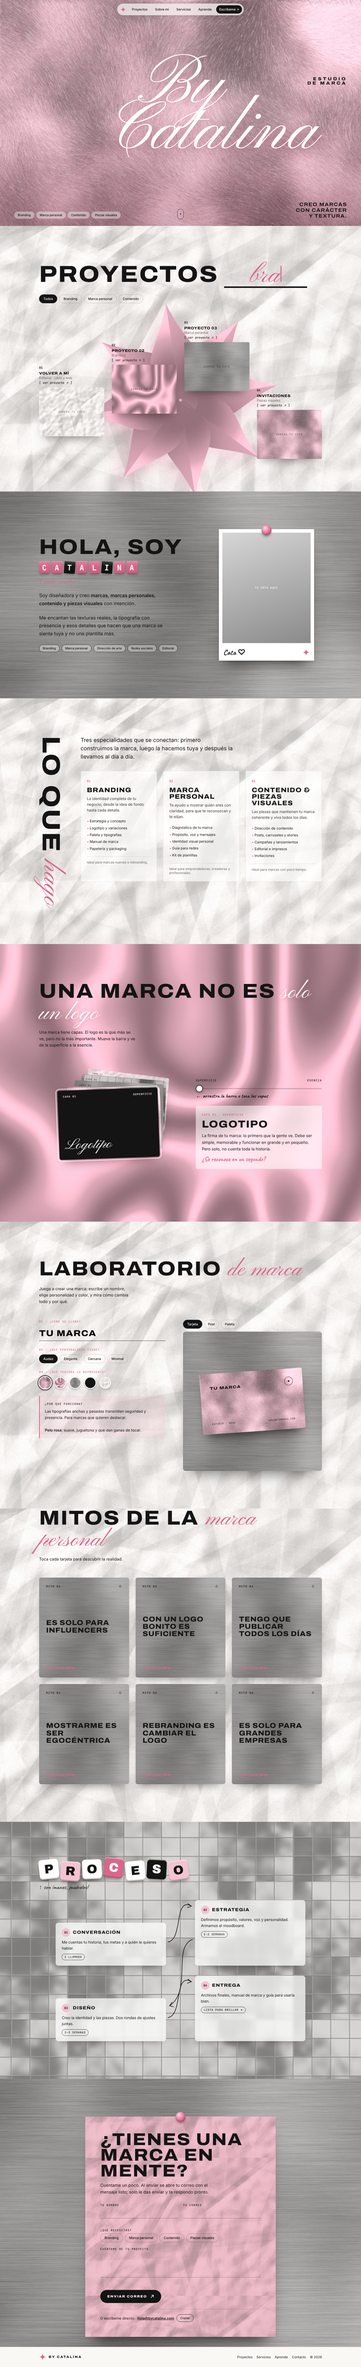
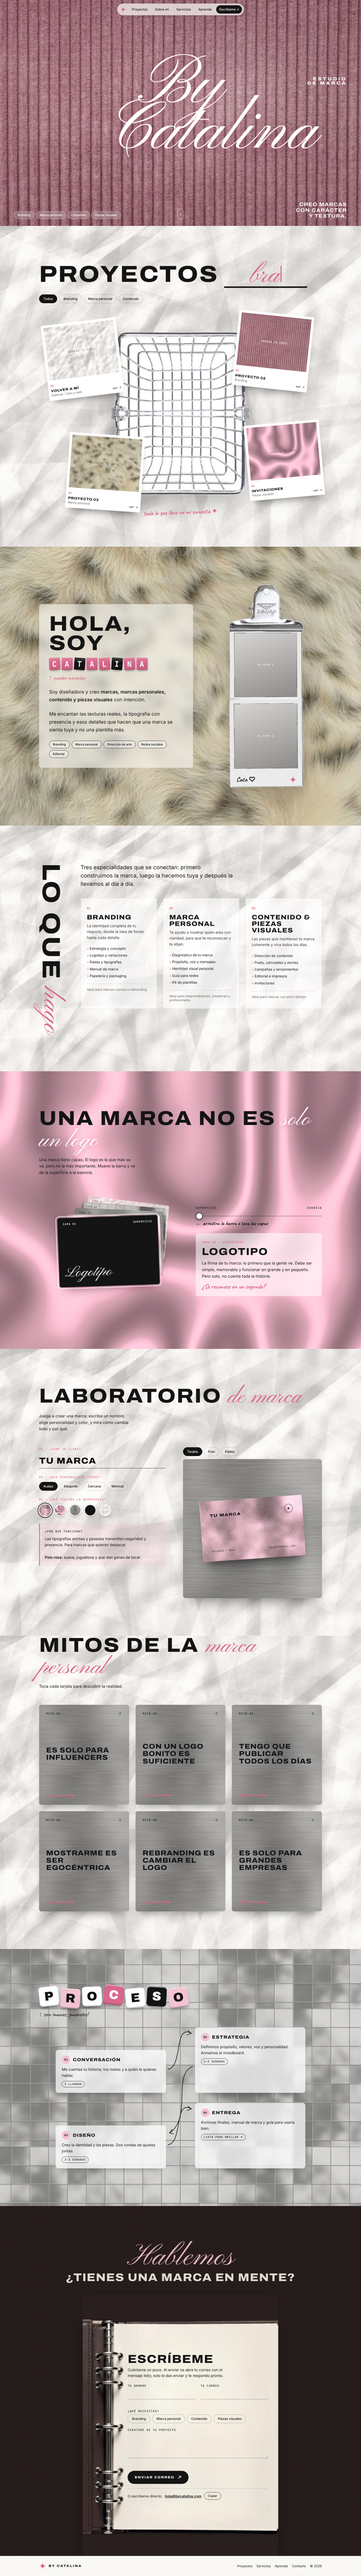
Integrar elementos reales: pana, leopardo, canasta, pinza con fotos y agenda
Claude-Session: https://claude.ai/code/session_01QqF85uPXbYHikvojiV1WsE

diff --git a/index.html b/index.html
@@ -23,6 +23,8 @@
   --cereza:#8e1b2c;
 
   --t-pelo:url(assets/tex/pelo-rosa.jpg);
+  --t-pana:url(assets/tex/pana-rosa.jpg);
+  --t-leopardo:url(assets/tex/pelo-leopardo.jpg);
   --t-acero:url(assets/tex/acero.jpg);
   --t-azulejo:url(assets/tex/azulejo-cromo.jpg);
   --t-papel:url(assets/tex/papel-blanco.jpg);
@@ -73,22 +75,22 @@ section{position:relative}
 .progress{position:fixed;left:0;top:0;height:3px;background:var(--rosa-3);z-index:600;width:0}
 
 /* ========================= HERO — pelo rosa ========================= */
-.hero{position:relative;height:100svh;min-height:600px;background:var(--rosa) var(--t-pelo) center/cover;overflow:hidden;color:#fff}
+.hero{position:relative;height:100svh;min-height:600px;background:#b5717f var(--t-pana) center/cover;overflow:hidden;color:#fff}
 .hero .light{position:absolute;inset:0;background:radial-gradient(600px circle at var(--mx,60%) var(--my,40%),rgba(255,255,255,.35),transparent 60%);mix-blend-mode:soft-light;pointer-events:none;transition:background .1s}
-.hero::after{content:"";position:absolute;inset:0;background:linear-gradient(180deg,rgba(0,0,0,0) 55%,rgba(80,20,40,.25));pointer-events:none}
+.hero::after{content:"";position:absolute;inset:0;background:radial-gradient(120% 90% at 50% 45%,rgba(255,255,255,.08),rgba(60,10,25,.35));pointer-events:none}
 .hero-name{position:absolute;left:0;right:0;top:50%;transform:translateY(-54%);text-align:center;z-index:2;pointer-events:none}
 .hero-name .script{display:block;font-size:clamp(96px,19vw,300px);line-height:.75;color:#fff;text-shadow:0 2px 0 rgba(160,60,90,.25),0 18px 40px rgba(120,30,60,.35)}
 .hero-name .script span{display:inline-block;opacity:0;filter:blur(14px);transform:translateY(20px);transition:opacity 1.2s var(--ease),filter 1.2s var(--ease),transform 1.2s var(--ease)}
 .hero.on .hero-name .script span{opacity:1;filter:blur(0);transform:none}
 .hero-name .n2{margin-left:18vw;margin-top:-.08em}
 .hero-side{position:absolute;right:clamp(18px,4vw,56px);top:34%;z-index:3;text-align:right}
-.hero-side .h{font-size:clamp(14px,1.4vw,18px);letter-spacing:.32em;color:var(--tinta)}
-.hero-bottom{position:absolute;left:0;right:0;bottom:0;z-index:3;display:flex;justify-content:space-between;align-items:flex-end;gap:20px;padding:0 clamp(18px,4vw,56px) 28px;color:var(--tinta);flex-wrap:wrap}
+.hero-side .h{font-size:clamp(14px,1.4vw,18px);letter-spacing:.32em;color:#fff}
+.hero-bottom{position:absolute;left:0;right:0;bottom:0;z-index:3;display:flex;justify-content:space-between;align-items:flex-end;gap:20px;padding:0 clamp(18px,4vw,56px) 28px;color:#fff;flex-wrap:wrap}
 .hero-bottom .tags{display:flex;gap:6px;flex-wrap:wrap}
-.hero-bottom .tags .pill{background:rgba(255,255,255,.4);backdrop-filter:blur(6px);border-color:rgba(20,20,20,.25)}
+.hero-bottom .tags .pill{background:rgba(255,255,255,.18);backdrop-filter:blur(6px);border-color:rgba(255,255,255,.55)}
 .hero-bottom p{font-family:var(--head);font-weight:700;font-variation-settings:"wdth" 112;text-transform:uppercase;letter-spacing:.08em;font-size:clamp(14px,1.5vw,20px);line-height:1.15;text-align:right}
-.scroll-cue{position:absolute;left:50%;bottom:26px;transform:translateX(-50%);z-index:3;width:26px;height:42px;border:1.5px solid var(--tinta);border-radius:20px}
-.scroll-cue::after{content:"";position:absolute;left:50%;top:8px;width:4px;height:8px;margin-left:-2px;border-radius:4px;background:var(--tinta);animation:cue 1.6s var(--ease) infinite}
+.scroll-cue{position:absolute;left:50%;bottom:26px;transform:translateX(-50%);z-index:3;width:26px;height:42px;border:1.5px solid #fff;border-radius:20px}
+.scroll-cue::after{content:"";position:absolute;left:50%;top:8px;width:4px;height:8px;margin-left:-2px;border-radius:4px;background:#fff;animation:cue 1.6s var(--ease) infinite}
 @keyframes cue{to{transform:translateY(14px);opacity:0}}
 
 /* ========================= PROYECTOS — papel blanco ========================= */
@@ -102,24 +104,33 @@ section{position:relative}
 .chip{padding:10px 16px;border-radius:40px;border:1px solid rgba(20,20,20,.25);font:500 13px/1 var(--body);transition:all .3s var(--ease)}
 .chip:hover{border-color:var(--tinta)}
 .chip.on{background:var(--tinta);color:var(--blanco);border-color:var(--tinta)}
-.stairs{position:relative;margin-top:clamp(30px,5vw,60px);display:grid;grid-template-columns:repeat(4,1fr);gap:clamp(14px,2.4vw,30px);align-items:end;min-height:560px}
-.flower{position:absolute;left:50%;bottom:-180px;width:min(820px,110vw);transform:translateX(-50%);z-index:0;pointer-events:none}
-.flower svg{width:100%;animation:spin 60s linear infinite;filter:drop-shadow(0 30px 40px rgba(217,102,139,.25))}
-.proj{position:relative;z-index:1;transition:transform .5s var(--ease),opacity .4s}
-.proj:nth-child(2){margin-bottom:90px}.proj:nth-child(3){margin-bottom:180px}.proj:nth-child(4){margin-bottom:270px}
-.proj.dim{opacity:.18;transform:scale(.96)}
-.proj .info{margin-bottom:10px}
-.proj .n{font:700 12px/1 var(--mono)}
-.proj h3{font-family:var(--head);font-weight:800;font-variation-settings:"wdth" 112;text-transform:uppercase;letter-spacing:.05em;font-size:15px;margin:6px 0 2px}
-.proj .cat{font-size:13px;color:var(--gris)}
-.proj .link{display:inline-block;margin-top:6px;font:500 12px/1 var(--mono);text-decoration:none}
-.proj .link:hover{color:var(--rosa-3)}
-.proj .img{aspect-ratio:4/3;border-radius:4px;overflow:hidden;position:relative;box-shadow:0 24px 40px -22px rgba(0,0,0,.5);transition:transform .5s var(--ease);background-size:cover;background-position:center}
-.proj:hover .img{transform:translateY(-8px) rotate(-1.5deg)}
-.proj .img .ph{position:absolute;inset:0;display:grid;place-items:center;font:500 10px/1.5 var(--mono);letter-spacing:.16em;text-transform:uppercase;color:rgba(20,20,20,.55);text-align:center}
+.basket-area{position:relative;margin-top:clamp(20px,4vw,40px);height:clamp(620px,62vw,800px)}
+.basket{position:absolute;left:50%;top:50%;width:min(560px,72vw);transform:translate(-50%,-50%) rotate(-4deg);filter:drop-shadow(0 40px 40px rgba(0,0,0,.25));pointer-events:none;transition:transform 1.2s var(--ease)}
+.basket-area.in .basket{transform:translate(-50%,-50%) rotate(0)}
+.proj{position:absolute;width:clamp(200px,24vw,300px);background:#fff;padding:10px 10px 14px;border-radius:3px;box-shadow:0 24px 34px -20px rgba(0,0,0,.55);transition:transform 1.1s var(--ease),opacity .5s;opacity:0;z-index:2;text-decoration:none}
+.basket-area.in .proj{opacity:1}
+.proj .img{aspect-ratio:4/3;border-radius:2px;overflow:hidden;position:relative;background-size:cover;background-position:center}
+.proj .img .ph{position:absolute;inset:0;display:grid;place-items:center;font:500 10px/1.5 var(--mono);letter-spacing:.16em;text-transform:uppercase;color:rgba(20,20,20,.55)}
+.proj .info{display:flex;justify-content:space-between;align-items:flex-end;gap:10px;margin-top:10px}
+.proj .n{font:700 11px/1 var(--mono);color:var(--rosa-3)}
+.proj h3{font-family:var(--head);font-weight:800;font-variation-settings:"wdth" 112;text-transform:uppercase;letter-spacing:.05em;font-size:14px;margin:5px 0 2px}
+.proj .cat{font-size:12px;color:var(--gris)}
+.proj .link{font:500 11px/1 var(--mono);white-space:nowrap}
+.proj:hover{z-index:5}
+.proj.dim{opacity:.2!important}
+.p1{left:2%;top:4%;transform:translateY(-140%) rotate(-30deg)}
+.p2{right:4%;top:0;transform:translateY(-160%) rotate(25deg)}
+.p3{left:10%;bottom:2%;transform:translateY(-260%) rotate(20deg)}
+.p4{right:0;bottom:8%;transform:translateY(-240%) rotate(-25deg)}
+.basket-area.in .p1{transform:rotate(-7deg)}
+.basket-area.in .p2{transform:rotate(6deg);transition-delay:.15s}
+.basket-area.in .p3{transform:rotate(4deg);transition-delay:.3s}
+.basket-area.in .p4{transform:rotate(-5deg);transition-delay:.45s}
+.basket-area.in .proj:hover{transform:rotate(0) scale(1.06) translateY(-6px);transition-delay:0s}
+.basket-note{position:absolute;left:50%;bottom:-6px;transform:translateX(-50%) rotate(-2deg);font:700 26px/1 var(--hand);color:var(--rosa-3);white-space:nowrap;z-index:3}
 
 /* ========================= SOBRE MÍ — acero ========================= */
-.about{background:#cfcdca var(--t-acero) center/cover;padding:clamp(90px,12vw,150px) 0;overflow:hidden}
+.about{background:#e8e2d6 var(--t-leopardo) center/cover;padding:clamp(90px,12vw,150px) 0;overflow:hidden}
 .about-grid{display:grid;grid-template-columns:1.25fr .9fr;gap:clamp(30px,5vw,80px);align-items:center}
 .hi{display:flex;align-items:center;flex-wrap:wrap;gap:18px 26px}
 .hi .h{font-size:clamp(40px,6vw,84px)}
@@ -137,10 +148,15 @@ section{position:relative}
 .skills{display:flex;gap:8px;flex-wrap:wrap;margin-top:28px}
 .skills .pill{background:rgba(255,255,255,.35)}
 .hand-note{font-family:var(--hand);font-size:24px;color:var(--rosa-3);margin-top:16px;display:flex;align-items:center;gap:8px}
-.photo{position:relative;justify-self:center;width:min(380px,82vw);background:#fff;padding:14px 14px 70px;transform:rotate(3deg);box-shadow:0 40px 50px -30px rgba(0,0,0,.65),0 2px 6px rgba(0,0,0,.15);transition:transform .6s var(--ease)}
-.photo:hover{transform:rotate(0) scale(1.02)}
-.photo .ph{aspect-ratio:4/5;background:linear-gradient(160deg,#d8d6d3,#8d8a87);display:grid;place-items:center;font:500 10px/1.5 var(--mono);letter-spacing:.16em;text-transform:uppercase;color:#fff;filter:grayscale(1);background-size:cover;background-position:center}
-.photo .cap{position:absolute;left:18px;right:18px;bottom:18px;font:700 30px/1 var(--hand);display:flex;justify-content:space-between;align-items:center}
+.strip{position:relative;justify-self:center;width:min(300px,64vw);aspect-ratio:359/971;transform-origin:50% 4%;animation:sway 5s ease-in-out infinite;filter:drop-shadow(0 30px 30px rgba(60,40,20,.35))}
+.strip .frame{position:absolute;inset:0;width:100%;height:100%;z-index:2;pointer-events:none}
+.strip .slot{position:absolute;z-index:1;background:linear-gradient(160deg,#d8d6d3,#8d8a87);background-size:cover;background-position:center;display:grid;place-items:center;font:500 10px/1.5 var(--mono);letter-spacing:.14em;text-transform:uppercase;color:#fff;text-align:center;filter:grayscale(.2)}
+.strip .s1{left:7%;top:23.6%;width:83.6%;height:31.9%}
+.strip .s2{left:6.8%;top:58.3%;width:84.6%;height:32.4%}
+.strip .cap{position:absolute;left:10%;right:10%;bottom:2.4%;z-index:3;font:700 26px/1 var(--hand);color:var(--tinta);display:flex;justify-content:space-between;align-items:center}
+.strip:hover{animation-play-state:paused}
+@keyframes sway{0%,100%{transform:rotate(-2.5deg)}50%{transform:rotate(2.5deg)}}
+.about .glass{background:rgba(250,248,245,.6);backdrop-filter:blur(10px);-webkit-backdrop-filter:blur(10px);padding:clamp(22px,3vw,40px);border-radius:10px}
 .magnet{position:absolute;top:-16px;left:50%;width:40px;height:40px;margin-left:-20px;border-radius:50%;background:radial-gradient(circle at 35% 30%,#ffd5e2,var(--rosa-3) 60%,#a8405f);box-shadow:0 8px 12px -4px rgba(0,0,0,.5),inset 0 -3px 6px rgba(0,0,0,.2);z-index:2}
 
 /* ========================= SERVICIOS — papel ========================= */
@@ -268,12 +284,17 @@ input[type=range]::-moz-range-thumb{width:24px;height:24px;border-radius:50%;bac
 .flow.in .arrows path:nth-child(3){transition-delay:1.2s}
 
 /* ========================= CONTACTO — acero + nota ========================= */
-.contact{background:#cfcdca var(--t-acero) center/cover;padding:clamp(90px,12vw,150px) 0 40px;overflow:hidden}
-.note{position:relative;max-width:760px;margin:0 auto;background:var(--rosa) var(--t-papel) center/900px;background-blend-mode:multiply;padding:clamp(28px,5vw,60px);box-shadow:0 50px 60px -40px rgba(0,0,0,.7),0 2px 4px rgba(0,0,0,.12);transform:rotate(-1deg);transition:transform .9s var(--ease),opacity .6s}
-.note .magnet{top:-18px}
-.note.fly{transform:translateY(-120px) rotate(-8deg) scale(.9);opacity:0}
-.note h2{font-size:clamp(34px,5.4vw,68px)}
-.note .sub{font-size:17px;margin:14px 0 30px;line-height:1.6;max-width:44ch}
+.contact{background:#291f1e;padding:clamp(90px,12vw,150px) 0 60px;overflow:hidden;color:var(--tinta)}
+.contact::before{content:"";position:absolute;inset:0;background:var(--t-grano);opacity:.25;pointer-events:none}
+.contact-head{text-align:center;color:#f1ece2;margin-bottom:clamp(30px,5vw,50px)}
+.contact-head .script{font-size:clamp(60px,9vw,120px);color:var(--rosa);line-height:.9;display:block}
+.contact-head .h{font-size:clamp(24px,3.4vw,44px);margin-top:6px}
+.agenda{position:relative;max-width:780px;margin:0 auto;aspect-ratio:736/981;background:url(assets/obj/agenda.jpg) center/100% 100% no-repeat;box-shadow:0 60px 80px -40px rgba(0,0,0,.8);transition:transform 1s var(--ease),opacity .7s}
+.agenda.fly{transform:translateY(-60px) rotate(-3deg) scale(.95);opacity:0}
+.note{position:absolute;left:23%;right:5%;top:12%;bottom:11%;display:flex;flex-direction:column;justify-content:center}
+.note h2{font-size:clamp(26px,3.6vw,46px)}
+.note .sub{font-size:15px;margin:10px 0 22px;line-height:1.55;max-width:44ch}
+.note .lines{background:repeating-linear-gradient(transparent 0 33px,rgba(217,102,139,.28) 33px 34px)}
 .field{margin-bottom:20px}
 .field .label{display:block;margin-bottom:6px}
 .note input,.note textarea{width:100%;background:transparent;border:0;border-bottom:1.5px solid rgba(20,20,20,.45);font:400 17px/1.4 var(--body);padding:8px 0;outline:none;border-radius:0;color:var(--tinta)}
@@ -281,17 +302,18 @@ input[type=range]::-moz-range-thumb{width:24px;height:24px;border-radius:50%;bac
 .note input:focus,.note textarea:focus{border-color:var(--tinta)}
 .note .chip{border-color:rgba(20,20,20,.35)}
 .row2{display:grid;grid-template-columns:1fr 1fr;gap:20px}
-.send{display:inline-flex;align-items:center;gap:12px;margin-top:6px;padding:18px 28px;background:var(--tinta);color:#fff;border-radius:50px;font-family:var(--head);font-weight:800;font-variation-settings:"wdth" 112;letter-spacing:.18em;text-transform:uppercase;font-size:13px;transition:transform .3s var(--ease),background .3s}
+.send{align-self:flex-start;display:inline-flex;align-items:center;gap:12px;margin-top:6px;padding:18px 28px;background:var(--tinta);color:#fff;border-radius:50px;font-family:var(--head);font-weight:800;font-variation-settings:"wdth" 112;letter-spacing:.18em;text-transform:uppercase;font-size:13px;transition:transform .3s var(--ease),background .3s}
 .send:hover{background:var(--rosa-3);transform:translateY(-2px)}
 .send svg{transition:transform .4s var(--ease)}
 .send:hover svg{transform:translate(4px,-4px)}
 .err{color:var(--cereza);font:500 11px/1.4 var(--mono);margin-top:5px;min-height:15px}
-.alt{display:flex;gap:10px;flex-wrap:wrap;align-items:center;margin-top:24px;padding-top:20px;border-top:1px dashed rgba(20,20,20,.35);font-size:14px}
+.alt{display:flex;gap:10px;flex-wrap:wrap;align-items:center;margin-top:18px;padding-top:14px;border-top:1px dashed rgba(20,20,20,.35);font-size:14px}
 .alt a{font-weight:600}
-.thanks{position:relative;max-width:760px;margin:-200px auto 0;text-align:center;opacity:0;transform:scale(.9);transition:opacity .6s .4s,transform .8s .4s var(--ease);pointer-events:none;height:200px}
+.thanks{position:relative;max-width:760px;margin:-260px auto 0;text-align:center;opacity:0;transform:scale(.9);transition:opacity .6s .4s,transform .8s .4s var(--ease);pointer-events:none;height:200px}
 .thanks.on{opacity:1;transform:none;pointer-events:auto}
-.thanks .script{font-size:clamp(70px,10vw,130px);color:#fff;text-shadow:0 10px 30px rgba(0,0,0,.25);line-height:1}
-.thanks p{font-size:16px;margin-top:10px}
+.thanks .script{font-size:clamp(70px,10vw,130px);color:var(--rosa);text-shadow:0 10px 30px rgba(0,0,0,.25);line-height:1}
+.thanks p{font-size:16px;margin-top:10px;color:#f1ece2}
+.thanks .pill{color:#f1ece2}
 .thanks button{margin-top:14px}
 footer{background:var(--blanco);padding:26px 0}
 .foot{display:flex;justify-content:space-between;align-items:center;gap:16px;flex-wrap:wrap}
@@ -307,9 +329,10 @@ footer{background:var(--blanco);padding:26px 0}
 
 /* responsive */
 @media (max-width:980px){
-  .stairs{grid-template-columns:1fr 1fr;min-height:0}
-  .proj:nth-child(n){margin-bottom:0}
-  .proj:nth-child(even){margin-top:60px}
+  .basket-area{height:auto;display:grid;grid-template-columns:1fr 1fr;gap:20px;padding:40px 0 60px}
+  .basket{width:min(520px,96vw)}
+  .proj{position:relative;left:auto!important;right:auto!important;top:auto!important;bottom:auto!important;width:auto}
+  .basket-note{bottom:0}
   .about-grid,.anat-grid,.lab-grid{grid-template-columns:1fr}
   .svc-layout{grid-template-columns:1fr}
   .vert{writing-mode:horizontal-tb;transform:none;position:static}
@@ -322,15 +345,22 @@ footer{background:var(--blanco);padding:26px 0}
   .hero-name .n2{margin-left:10vw}
 }
 @media (max-width:560px){
-  .stairs{grid-template-columns:1fr}
-  .proj:nth-child(even){margin-top:0}
+  .basket-area{grid-template-columns:1fr}
+  .agenda{aspect-ratio:auto;background:#f1ece2;border-left:46px solid #4a3a36;border-radius:4px;padding:30px 20px}
+  .agenda::before{content:"";position:absolute;left:-30px;top:20px;bottom:20px;width:24px;background:radial-gradient(circle,#e6e6e6 5px,#9a9a9a 7px,transparent 8px) 0 0/24px 60px repeat-y}
+  .note{position:static}
+  .thanks{margin-top:-200px}
   .flip-grid{grid-template-columns:1fr}
   .flip{aspect-ratio:1.25}
   .row2{grid-template-columns:1fr}
   .hero-side{top:20%}
   .hero-bottom p{text-align:left}
   .scroll-cue{display:none}
-  .hero-name .script{font-size:30vw}
+  .hero-name .script{font-size:25vw;white-space:nowrap}
+  .mag{width:40px;font-size:24px;border-radius:9px}
+  .tape{font-size:15px;padding:7px 7px 6px}.tape-word{gap:4px}
+  .basket-area{grid-template-columns:1fr 1fr;gap:12px}
+  .proj{padding:6px 6px 10px}.proj h3{font-size:11px}.proj .cat,.proj .link{display:none}
 }
 </style>
 </head>
@@ -383,31 +413,25 @@ footer{background:var(--blanco);padding:26px 0}
       <button class="chip" data-f="contenido">Contenido</button>
     </div>
     <!-- Para usar tus fotos: en cada .img agrega style="background-image:url(assets/proyectos/tu-foto.jpg)" y borra el <span class="ph"> -->
-    <div class="stairs">
-      <div class="flower" aria-hidden="true">
-        <svg viewBox="-200 -200 400 400"><g fill="url(#satinPat)">
-          <path d="M0-190 C30-90 90-80 0 0 C-90-80-30-90 0-190Z"/><path d="M0-190 C30-90 90-80 0 0 C-90-80-30-90 0-190Z" transform="rotate(45)"/>
-          <path d="M0-190 C30-90 90-80 0 0 C-90-80-30-90 0-190Z" transform="rotate(90)"/><path d="M0-190 C30-90 90-80 0 0 C-90-80-30-90 0-190Z" transform="rotate(135)"/>
-          <path d="M0-190 C30-90 90-80 0 0 C-90-80-30-90 0-190Z" transform="rotate(180)"/><path d="M0-190 C30-90 90-80 0 0 C-90-80-30-90 0-190Z" transform="rotate(225)"/>
-          <path d="M0-190 C30-90 90-80 0 0 C-90-80-30-90 0-190Z" transform="rotate(270)"/><path d="M0-190 C30-90 90-80 0 0 C-90-80-30-90 0-190Z" transform="rotate(315)"/>
-          <circle r="34"/></g></svg>
-      </div>
-      <article class="proj rv" data-cat="contenido" data-cursor="ver">
-        <div class="info"><span class="n">01</span><h3>Volver a mí</h3><div class="cat">Editorial · Libro y web</div><a class="link" href="#">[ ver proyecto ↗ ]</a></div>
+    <div class="basket-area" id="basket">
+      <img class="basket" src="assets/obj/canasta.png" alt="" aria-hidden="true">
+      <a class="proj p1" href="#" data-cat="contenido" data-cursor="ver">
         <div class="img" style="background-image:var(--t-papel)"><span class="ph">Agrega tu foto</span></div>
-      </article>
-      <article class="proj rv" data-cat="branding" data-cursor="ver">
-        <div class="info"><span class="n">02</span><h3>Proyecto 02</h3><div class="cat">Branding</div><a class="link" href="#">[ ver proyecto ↗ ]</a></div>
+        <div class="info"><div><span class="n">01</span><h3>Volver a mí</h3><div class="cat">Editorial · Libro y web</div></div><span class="link">ver ↗</span></div>
+      </a>
+      <a class="proj p2" href="#" data-cat="branding" data-cursor="ver">
+        <div class="img" style="background-image:var(--t-pana)"><span class="ph" style="color:#fff">Agrega tu foto</span></div>
+        <div class="info"><div><span class="n">02</span><h3>Proyecto 02</h3><div class="cat">Branding</div></div><span class="link">ver ↗</span></div>
+      </a>
+      <a class="proj p3" href="#" data-cat="personal" data-cursor="ver">
+        <div class="img" style="background-image:var(--t-leopardo)"><span class="ph">Agrega tu foto</span></div>
+        <div class="info"><div><span class="n">03</span><h3>Proyecto 03</h3><div class="cat">Marca personal</div></div><span class="link">ver ↗</span></div>
+      </a>
+      <a class="proj p4" href="#" data-cat="contenido" data-cursor="ver">
         <div class="img" style="background-image:var(--t-satin)"><span class="ph">Agrega tu foto</span></div>
-      </article>
-      <article class="proj rv" data-cat="personal" data-cursor="ver">
-        <div class="info"><span class="n">03</span><h3>Proyecto 03</h3><div class="cat">Marca personal</div><a class="link" href="#">[ ver proyecto ↗ ]</a></div>
-        <div class="img" style="background-image:var(--t-acero)"><span class="ph">Agrega tu foto</span></div>
-      </article>
-      <article class="proj rv" data-cat="contenido" data-cursor="ver">
-        <div class="info"><span class="n">04</span><h3>Invitaciones</h3><div class="cat">Piezas visuales</div><a class="link" href="#">[ ver proyecto ↗ ]</a></div>
-        <div class="img" style="background-image:var(--t-pelo)"><span class="ph">Agrega tu foto</span></div>
-      </article>
+        <div class="info"><div><span class="n">04</span><h3>Invitaciones</h3><div class="cat">Piezas visuales</div></div><span class="link">ver ↗</span></div>
+      </a>
+      <span class="basket-note">todo lo que llevo en mi canasta ✦</span>
     </div>
   </div>
 </section>
@@ -415,7 +439,7 @@ footer{background:var(--blanco);padding:26px 0}
 <!-- ================= SOBRE MÍ ================= -->
 <section class="about" id="sobre-mi">
   <div class="wrap about-grid">
-    <div class="rv">
+    <div class="rv glass">
       <div class="hi">
         <span class="h">Hola, soy</span>
         <div class="tape-word" id="tapeWord"></div>
@@ -425,10 +449,11 @@ footer{background:var(--blanco);padding:26px 0}
       <p>Me encantan las texturas reales, la tipografía con presencia y esos detalles que hacen que una marca se sienta tuya y no una plantilla más.</p>
       <div class="skills"><span class="pill">Branding</span><span class="pill">Marca personal</span><span class="pill">Dirección de arte</span><span class="pill">Redes sociales</span><span class="pill">Editorial</span></div>
     </div>
-    <div class="photo rv">
-      <span class="magnet"></span>
-      <!-- tu foto: <div class="ph" style="background-image:url(assets/catalina.jpg)"></div> -->
-      <div class="ph">Tu foto aquí</div>
+    <div class="strip rv">
+      <!-- tus fotos: cambia el style de .s1 y .s2 por background-image:url(assets/tu-foto.jpg) y borra el texto -->
+      <div class="slot s1">Tu foto 1</div>
+      <div class="slot s2">Tu foto 2</div>
+      <img class="frame" src="assets/obj/pinza-fotos.png" alt="">
       <div class="cap"><span>Cata ♡</span><svg class="star" style="color:var(--rosa-3)"><use href="#star"/></svg></div>
     </div>
   </div>
@@ -561,9 +586,10 @@ footer{background:var(--blanco);padding:26px 0}
 <!-- ================= CONTACTO ================= -->
 <section class="contact" id="contacto">
   <div class="wrap">
-    <form class="note rv" id="form" novalidate>
-      <span class="magnet"></span>
-      <h2 class="h">¿Tienes una marca en mente?</h2>
+    <div class="contact-head rv"><span class="script">Hablemos</span><div class="h">¿Tienes una marca en mente?</div></div>
+    <div class="agenda rv" id="agenda">
+    <form class="note" id="form" novalidate>
+      <h2 class="h">Escríbeme</h2>
       <p class="sub">Cuéntame un poco. Al enviar se abre tu correo con el mensaje listo; solo le das enviar y te respondo pronto.</p>
       <div class="row2">
         <div class="field"><label class="label" for="fName">Tu nombre</label><input id="fName" autocomplete="name"><div class="err"></div></div>
@@ -575,6 +601,7 @@ footer{background:var(--blanco);padding:26px 0}
       <button class="send" type="submit" data-cursor="enviar">Enviar correo <svg width="16" height="16" viewBox="0 0 16 16" fill="none" stroke="currentColor" stroke-width="2"><path d="M3 13L13 3M5 3h8v8"/></svg></button>
       <div class="alt">O escríbeme directo: <a id="mailLink" href="#">correo</a> <button type="button" class="pill" id="copyMail">Copiar</button></div>
     </form>
+    </div>
     <div class="thanks" id="thanks"><div class="script">¡Gracias!</div><p>Tu correo ya está listo para enviarse. Te respondo pronto ♡</p><button class="pill" id="again" type="button">Escribir otro mensaje</button></div>
   </div>
 </section>
@@ -615,7 +642,7 @@ let wi = 0, ci = 0, del = false;
 
 /* aparición al hacer scroll */
 const io = new IntersectionObserver(es => es.forEach(e => { if (e.isIntersecting) { e.target.classList.add('in'); io.unobserve(e.target); } }), { threshold: .12 });
-document.querySelectorAll('.rv,#flow').forEach(el => io.observe(el));
+document.querySelectorAll('.rv,#flow,#basket').forEach(el => io.observe(el));
 
 /* progreso + cursor */
 const prog = document.querySelector('.progress');
@@ -724,9 +751,9 @@ $('form').onsubmit = e => {
   const need = [...$('fNeed').querySelectorAll('.on')].map(b => b.textContent).join(', ') || 'Por definir', name = $('fName').value.trim();
   const body = `Hola Catalina,\n\nMe llamo ${name}.\nNecesito: ${need}\n\n${$('fMsg').value.trim()}\n\nMi correo: ${$('fMail').value.trim()}`;
   location.href = `mailto:${CORREO}?subject=${encodeURIComponent('Nuevo proyecto — ' + name)}&body=${encodeURIComponent(body)}`;
-  $('form').classList.add('fly'); $('thanks').classList.add('on');
+  $('agenda').classList.add('fly'); $('thanks').classList.add('on');
 };
-$('again').onclick = () => { $('form').reset(); $('fNeed').querySelectorAll('.on').forEach(b => b.classList.remove('on')); $('form').classList.remove('fly'); $('thanks').classList.remove('on'); };
+$('again').onclick = () => { $('form').reset(); $('fNeed').querySelectorAll('.on').forEach(b => b.classList.remove('on')); $('agenda').classList.remove('fly'); $('thanks').classList.remove('on'); };
 </script>
 </body>
 </html>

diff --git a/README.md b/README.md
@@ -5,7 +5,8 @@ Portafolio de **branding, marca personal, contenido y piezas visuales**.
 ![Vista previa](preview.png)
 
 ## Qué tiene
-- Texturas: pelo rosa, acero cepillado, azulejo cromado, papel y satín (`assets/tex/`).
+- Texturas reales: pana rosa y pelo de leopardo de las nieves, más acero, azulejo, papel y satín (`assets/tex/`).
+- Objetos reales recortados: canasta de alambre, pinza con tira de fotos y agenda de argollas (`assets/obj/`).
 - Animaciones: pantalla de carga, letras que aparecen, cintas en movimiento, cursor personalizado.
 - Secciones interactivas para aprender sobre marca:
   - **Una marca no es solo un logo**: las 5 capas de una marca.
@@ -14,6 +15,7 @@ Portafolio de **branding, marca personal, contenido y piezas visuales**.
 - Formulario de contacto que abre el correo con el mensaje listo.
 
 ## Para personalizar
+0. **Tus fotos en la pinza**: en la sección Sobre mí, a `.s1` y `.s2` ponles `style="background-image:url(assets/tu-foto.jpg)"`.
 1. **Tu correo**: en `index.html` busca `const CORREO =` y escribe tu correo.
 2. **Tus proyectos**: guarda las fotos en `assets/proyectos/` y en cada proyecto cambia
    `background-image:var(--t-...)` por `background-image:url(assets/proyectos/tu-foto.jpg)`.
